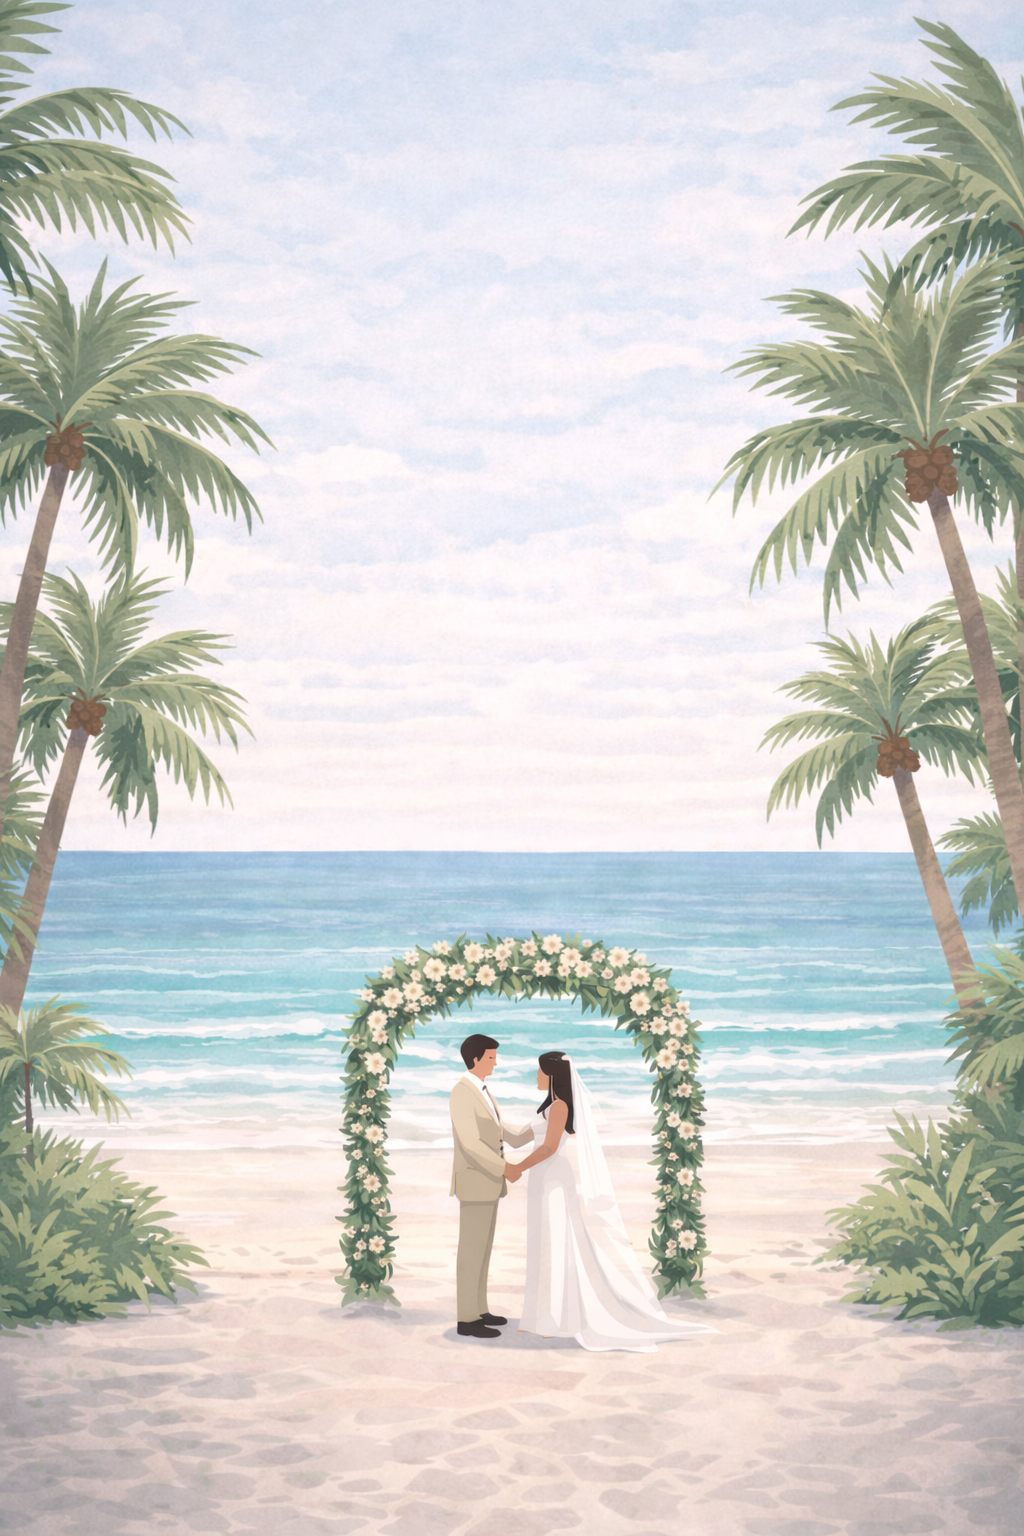
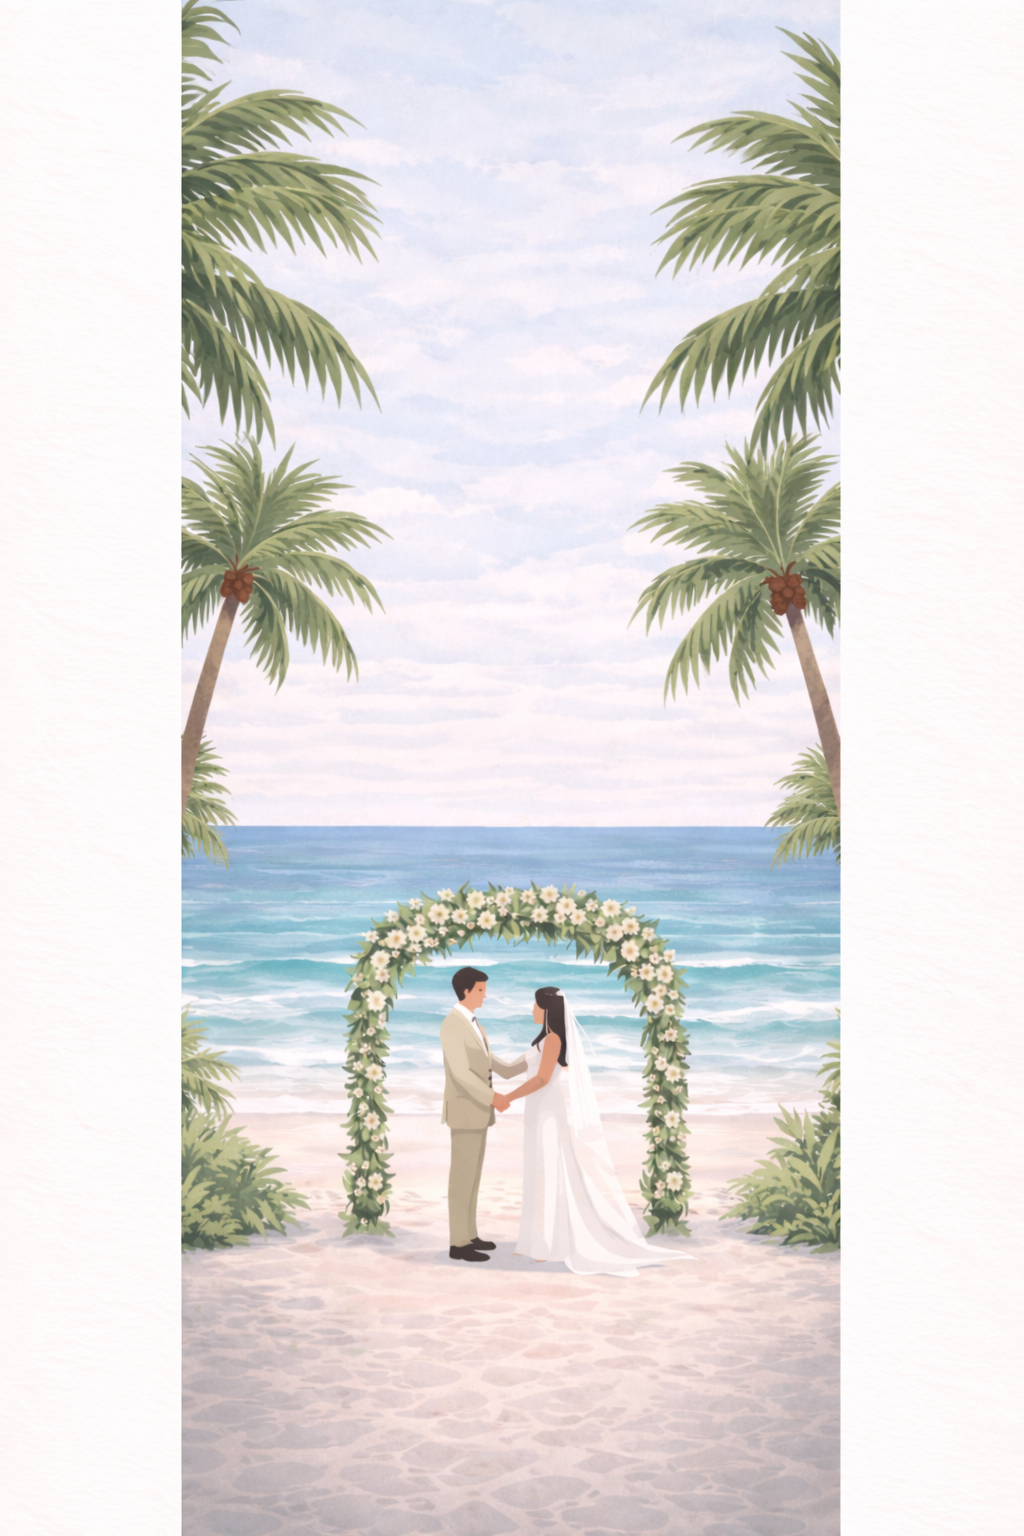
actualice la foto3 para que este alargada y se vea bien en el telefono,

diff --git a/src/app/boda-carla-said/page.tsx b/src/app/boda-carla-said/page.tsx
@@ -109,7 +109,7 @@ function ItineraryItem({ step, t }: { step: any, t: any }) {
         )} />
         <p className={cn(serif.className, "text-4xl md:text-6xl tracking-widest text-[#c5a059]")}>{step.time}</p>
       </div>
-      <div className="pl-16 md:pl-32 space-y-4">
+      <div className="pl-8 md:pl-32 space-y-4">
         <h3 className="text-xl md:text-2xl uppercase tracking-[0.4em] font-light text-[#5c6b5c]">{step.label}</h3>
         <p className="text-[10px] md:text-xs uppercase tracking-widest opacity-40 mb-4">{step.location}</p>
         <Button variant="link" className="text-[10px] uppercase tracking-[0.3em] text-[#8a9a5b] p-0 h-auto border-b border-[#8a9a5b]/20">
@@ -380,7 +380,7 @@ export default function WeddingPage() {
             src={itineraryBgImage?.imageUrl || "/foto3.png"} 
             alt="Itinerary Decor" 
             fill 
-            className="object-contain object-center pointer-events-none"
+            className="object-cover object-center pointer-events-none"
             data-ai-hint="elegant decoration detail"
           />
         </div>
